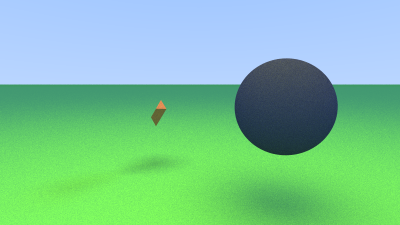
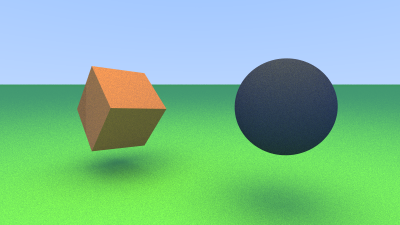
now it's kinda faster AND works

Changed region(s): [[0.12, 0.28, 0.45, 0.8711]]

diff --git a/src/aabb.rs b/src/aabb.rs
@@ -87,18 +87,25 @@ impl Aabb {
     }
 
     fn intersected_by_ray(&self, ray: &Ray) -> bool {
-        let mut tmin: f64 = f64::NEG_INFINITY;
-        let mut tmax: f64 = f64::INFINITY;
+        let tx1 = (self.min_corner.x() - ray.origin().x()) * ray.inverse_direction().x();
+        let tx2 = (self.max_corner.x() - ray.origin().x()) * ray.inverse_direction().x();
 
-        for d in 0..3 {
-            let t1 = (self.min_corner[d] - ray.origin()[d]) * ray.inverse_direction()[d];
-            let t2 = (self.max_corner[d] - ray.origin()[d]) * ray.inverse_direction()[d];
+        let mut tmin = tx1.min(tx2);
+        let mut tmax = tx1.max(tx2);
 
-            tmin = tmin.max(t1.min(t2));
-            tmax = tmax.min(t1.max(t2));
-        }
+        let ty1 = (self.min_corner.y() - ray.origin().y()) * ray.inverse_direction().y();
+        let ty2 = (self.max_corner.y() - ray.origin().y()) * ray.inverse_direction().y();
 
-        tmin < tmax
+        tmin = tmin.max(ty1.min(ty2));
+        tmax = tmax.min(ty1.max(ty2));
+
+        let tz1 = (self.min_corner.z() - ray.origin().z()) * ray.inverse_direction().z();
+        let tz2 = (self.max_corner.z() - ray.origin().z()) * ray.inverse_direction().z();
+
+        tmin = tmin.max(tz1.min(tz2));
+        tmax = tmax.min(tz1.max(tz2));
+
+        tmax >= tmin.max(0.0)
     }
 }
 

diff --git a/src/main.rs b/src/main.rs
@@ -31,12 +31,12 @@ use clap::Parser;
 use progress_bar::{finalize_progress_bar, inc_progress_bar, init_progress_bar};
 use rand::Rng;
 use std::io::BufWriter;
+use std::ops::Deref;
 use std::path::PathBuf;
 use std::sync::Arc;
 use std::thread;
 use std::thread::JoinHandle;
 use std::{fs, iter};
-use std::ops::Deref;
 use vector3::Vector3 as Color;
 
 #[derive(Parser)]

diff --git a/src/ray.rs b/src/ray.rs
@@ -21,7 +21,7 @@ impl Ray {
         Ray {
             origin,
             direction: direction_normalized,
-            inverse_direction: -direction_normalized
+            inverse_direction: Vector3::default() / direction_normalized,
         }
     }
 
